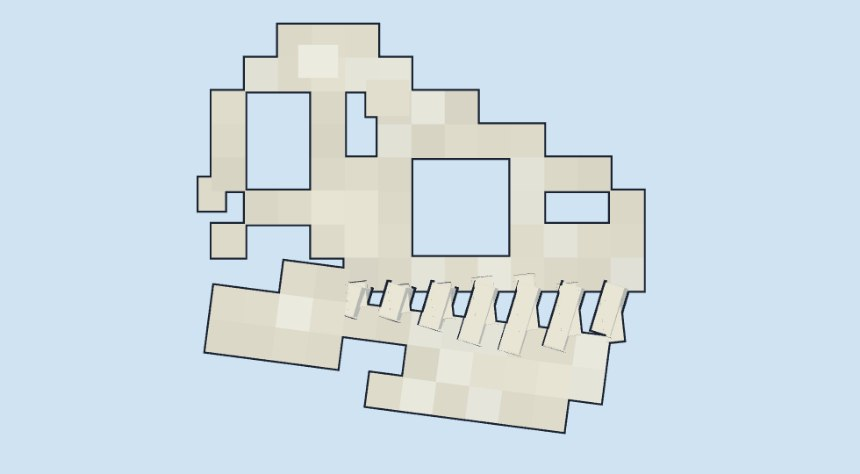
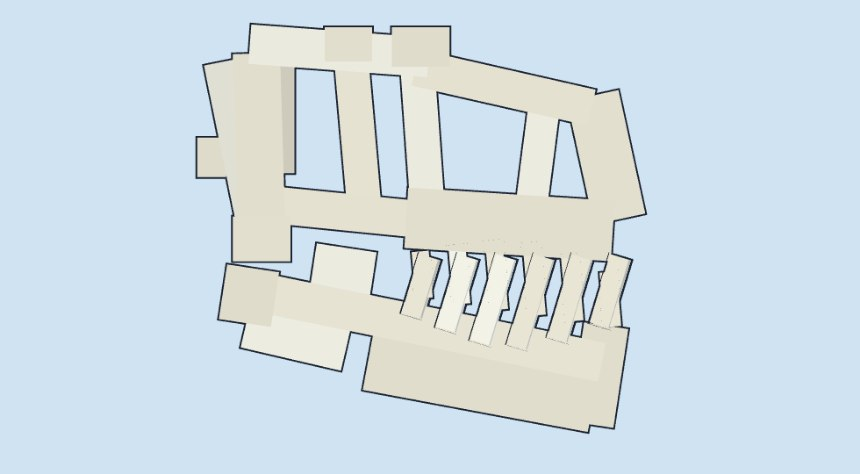
Build the skull from struts so its outlines match the rest of the skeleton
The complaint was never the block count: it was that every cell boundary
in the grid-built skull picked up its own inverted-hull outline, so the
head was hatched with seams while the body is smooth rods. Two adjacent
boxes always produce a line, because each hull expands past the other.

So the skull is assembled the way a real one is, out of a dozen big
bones instead of ninety cells:

- Outline members (skull roof, nasals, premaxilla, maxilla, jugal,
  raked-back occiput, quadrate) box in the silhouette, and three
  uprights - postorbital bar, lacrimal, ascending ramus of the maxilla -
  divide the space between them. The fenestrae are then simply the gaps
  between bones: lateral temporal, orbit, antorbital, naris.
- The braincase sits recessed behind the temporal opening so that
  fenestra reads as a window with something inside rather than a hole
  straight through the head.
- The lower jaw follows the same idea: upper rail, dentary body and
  angular, with the mandibular fenestra as the gap between them.
- `rod` gains a separate depth so a bone can be thin across its length
  and wide across the skull, which is what let the struts replace boxes.

Claude-Session: https://claude.ai/code/session_0125P2mU8XHrXdhLTmH6Xdx1

Changed region(s): [[0.2116, 0.0295, 0.7558, 0.9156]]

diff --git a/src/world/props.js b/src/world/props.js
@@ -2,7 +2,7 @@
 // Static props are merged into a handful of batched draw calls; only things
 // that actually move keep their own transform.
 import * as THREE from '../../vendor/three/three.module.js';
-import { mulberry32, lerp, clamp } from '../lib/math.js';
+import { mulberry32, lerp } from '../lib/math.js';
 import { VoxelBuilder, toonMaterial, addOutline, outlineMaterial } from '../lib/voxel.js';
 import { applyWind, windOutlineMaterial } from '../lib/wind.js';
 import { CFG, groundAt, isLand, surfaceAt, slopeAt } from './terrain.js';
@@ -44,7 +44,7 @@ const _UP = new THREE.Vector3(0, 1, 0);
  * Chaining these with a shrinking width gives smooth tapered rods instead of
  * a staircase of axis-aligned cubes.
  */
-function rod(b, base, a, c, w, color, opts = {}, pad = 0.04) {
+function rod(b, base, a, c, w, color, opts = {}, pad = 0.04, depth = 0) {
   _rd.set(c[0] - a[0], c[1] - a[1], c[2] - a[2]);
   const len = _rd.length();
   if (len < 1e-5) return;
@@ -54,7 +54,7 @@ function rod(b, base, a, c, w, color, opts = {}, pad = 0.04) {
   _rm.compose(_rc, _rq, _r1);
   _rm.premultiply(base);
   b.setTransform(_rm);
-  b.box(0, 0, 0, w, len + pad, w, color, opts);
+  b.box(0, 0, 0, w, len + pad, depth || w, color, opts);
 }
 
 const COL = {
@@ -308,124 +308,93 @@ function signpost(b, x, z, yaw) {
  * huge antorbital fenestra, a keyhole orbit set high, the broad temporal
  * opening behind it, and a deep boxy back. No horns, no crest.
  */
-const TREX = {
-  cols: 13,
-  // side view, top row first. Column 0 is the snout tip, 12 the occiput,
-  // row 0 the maxillary tooth row.
-  skull: [
-    '........###..',
-    '.......#####.',
-    '.....###.#..#',
-    '...#####.#..#',
-    '.###...###..#',
-    '#..#...#####.',
-    '####...###..#',
-    '#########....',
-  ],
-  // lower jaw: a coronoid bump above the tooth margin, then the dentary
-  jaw: [
-    '.........##..',
-    '.############',
-    '.######..####',
-    '..######.....',
-  ],
-  jawTopRow: 1,          // index in `jaw` that lines up with the tooth margin
-  // full width per column, in cells: narrow snout, broad braincase
-  wide: [1.9, 2.0, 2.1, 2.2, 2.4, 2.6, 2.9, 3.2, 3.6, 3.9, 4.0, 3.8, 3.4],
-};
-
-/** Half-width multiplier across the skull's height: an arch, not a slab. */
-const archProfile = (v) => 0.6 + 0.4 * Math.sin(Math.PI * Math.pow(clamp(v, 0, 1), 0.85));
-
-function gridAt(map, c, r) {
-  const row = map[map.length - 1 - r];      // row 0 is the bottom line
-  return !!row && row[c] === '#';
-}
-
+/**
+ * Tyrannosaurus skull.
+ *
+ * Built the way the real thing is - a frame of struts - rather than as a solid
+ * grid with holes cut in it. Two reasons: at this block size every cell
+ * boundary picks up its own ink outline, so a grid skull ends up hatched with
+ * seams while the rest of the skeleton is smooth rods; and the fenestrae then
+ * fall out naturally as the gaps between bones. The outline members (skull
+ * roof, nasals, premaxilla, maxilla, jugal, quadrate) box in the silhouette and
+ * three uprights - postorbital bar, lacrimal, ascending ramus of the maxilla -
+ * divide the space between them into, back to front: lateral temporal
+ * fenestra, orbit, antorbital fenestra, naris.
+ *
+ * Design units: occiput at x = 0, snout tip at 3.2, tooth row at y = 0.
+ */
 export function trexSkull(b, base, ox, oy, oz, tilt, rnd, opts = {}) {
-  const T = TREX;
-  const { len = 2.6, jawDrop = 0.15 } = opts;
-  const cell = len / T.cols;
-  const rows = T.skull.length;
+  const { len = 3.1, jawDrop = 0.15 } = opts;
+  const k = len / 3.2;
   const bone = () => (rnd() < 0.22 ? COL.boneWarm : COL.bone);
   const skullM = new THREE.Matrix4()
     .compose(new THREE.Vector3(ox, oy, oz),
       new THREE.Quaternion().setFromEuler(new THREE.Euler(0, 0, tilt)),
-      new THREE.Vector3(1, 1, 1))
+      new THREE.Vector3(k, k, k))
     .premultiply(base);
 
-  const xOf = (c) => (T.cols - 1 - c) * cell;
-  const put = (m, x, y, z, w, h, d, tint) => {
+  // a bone: thickness `w` across the bar, `d` across the skull
+  const bar = (m, ax, ay, cx, cy, w, d, tint = 1) =>
+    rod(b, m, [ax, ay, 0], [cx, cy, 0], w, bone(),
+      { tint: tint * (0.97 + rnd() * 0.06) }, 0.02, d);
+  const box = (m, x, y, z, w, h, d, tint = 1) => {
     b.setTransform(m);
-    b.box(x, y, z, w, h, d, bone(), { tint: tint * (0.96 + rnd() * 0.08) });
+    b.box(x, y, z, w, h, d, bone(), { tint: tint * (0.97 + rnd() * 0.06) });
   };
 
-  // --- cranium ------------------------------------------------------------
-  const colSpan = [];
-  for (let c = 0; c < T.cols; c++) {
-    let lo = 99, hi = -1;
-    for (let r = 0; r < rows; r++) if (gridAt(T.skull, c, r)) { lo = Math.min(lo, r); hi = Math.max(hi, r); }
-    colSpan[c] = [lo, hi];
-  }
-  for (let c = 0; c < T.cols; c++) {
-    const [lo, hi] = colSpan[c];
-    for (let r = 0; r < rows; r++) {
-      if (!gridAt(T.skull, c, r)) continue;
-      const v = (r - lo) / Math.max(hi - lo, 1);
-      const open = !gridAt(T.skull, c - 1, r) || !gridAt(T.skull, c + 1, r)
-        || !gridAt(T.skull, c, r - 1) || !gridAt(T.skull, c, r + 1);
-      const w = T.wide[c] * cell * archProfile(v) * (open ? 0.84 : 1);
-      put(skullM, xOf(c), r * cell, 0, cell * 1.02, cell * 1.02, w, open ? 0.92 : 1);
-    }
-  }
+  // --- outline members -----------------------------------------------------
+  bar(skullM, 0.26, 1.62, 1.60, 1.52, 0.30, 0.92);      // skull roof
+  bar(skullM, 1.52, 1.44, 2.84, 1.14, 0.28, 0.58);      // nasals
+  bar(skullM, 2.86, 1.22, 3.06, 0.30, 0.40, 0.50);      // premaxilla, blunt tip
+  bar(skullM, 1.45, 0.30, 3.00, 0.20, 0.46, 0.66);      // maxilla, tooth bearing
+  bar(skullM, 0.42, 0.40, 1.62, 0.28, 0.28, 0.50);      // jugal
+  bar(skullM, 0.30, 1.54, 0.34, 0.22, 0.36, 0.76);      // quadrate
 
-  // lateral offset that lands on the skull surface at a given cell
-  const surfaceZ = (c, r) => {
-    const [lo, hi] = colSpan[Math.round(c)];
-    return T.wide[Math.round(c)] * cell
-      * archProfile((r - lo) / Math.max(hi - lo, 1)) * 0.46;
-  };
-  // the rugose lumps a T. rex carries on the lacrimal and postorbital
+  // braincase set well in behind the temporal opening, so the fenestra reads as
+  // an opening with something recessed inside rather than a filled panel
+  box(skullM, 0.34, 1.05, 0, 0.5, 0.82, 0.44, 0.8);
+  bar(skullM, 0.06, 1.48, 0.30, 0.30, 0.32, 0.66, 0.88);   // occiput, raked back
+  box(skullM, -0.04, 0.76, 0, 0.22, 0.3, 0.3, 0.95);    // occipital condyle
+  box(skullM, 0.34, 0.14, 0, 0.44, 0.34, 0.8, 0.96);    // jaw articulation
+
+  // --- uprights that divide the openings -----------------------------------
+  bar(skullM, 1.02, 1.52, 1.12, 0.38, 0.26, 0.46);      // postorbital bar
+  bar(skullM, 1.52, 1.52, 1.60, 0.40, 0.26, 0.46);      // lacrimal
+  bar(skullM, 2.50, 1.24, 2.40, 0.46, 0.24, 0.42);      // ascending ramus
+
+  // rugose lumps on the lacrimal and postorbital (a T. rex has no horns)
   for (const s of [-1, 1]) {
-    put(skullM, xOf(7.2), cell * 5.3, s * surfaceZ(7, 5.3), cell * 1.3, cell * 1.1, cell * 0.8, 0.95);
-    put(skullM, xOf(9.3), cell * 6.4, s * surfaceZ(9, 6.4), cell * 1.2, cell * 1.0, cell * 0.8, 0.95);
+    box(skullM, 1.55, 1.6, s * 0.4, 0.44, 0.3, 0.26, 0.95);
+    box(skullM, 1.0, 1.62, s * 0.38, 0.36, 0.26, 0.24, 0.95);
   }
-  put(skullM, xOf(12) - cell * 0.5, cell * 2.4, 0, cell * 0.8, cell * 1.0, cell * 1.0, 0.94);
 
-  // --- lower jaw, hinged open at the articulation --------------------------
-  const px = xOf(11.7), py = 0;
-  const jawM = new THREE.Matrix4().makeTranslation(px, py - cell * 0.95, 0)
+  // --- lower jaw, hinged at the articulation -------------------------------
+  const px = 0.34 * k, py = 0.08 * k;
+  const jawM = new THREE.Matrix4().makeTranslation(px, py, 0)
     .multiply(new THREE.Matrix4().makeRotationZ(-jawDrop))
     .multiply(new THREE.Matrix4().makeTranslation(-px, -py, 0))
     .premultiply(skullM);
-  const jawRows = T.jaw.length;
-  for (let c = 0; c < T.cols; c++) {
-    for (let r = 0; r < jawRows; r++) {
-      if (!gridAt(T.jaw, c, r)) continue;
-      const y = (r - (jawRows - 1 - T.jawTopRow)) * cell;
-      const open = !gridAt(T.jaw, c - 1, r) || !gridAt(T.jaw, c + 1, r)
-        || !gridAt(T.jaw, c, r - 1) || !gridAt(T.jaw, c, r + 1);
-      const w = T.wide[c] * cell * 0.76 * (open ? 0.88 : 1);
-      put(jawM, xOf(c), y, 0, cell * 1.02, cell * 1.02, w, open ? 0.93 : 1);
-    }
-  }
+  bar(jawM, 0.30, -0.26, 3.02, -0.40, 0.3, 0.58);       // upper rail
+  bar(jawM, 1.28, -0.66, 3.00, -0.72, 0.44, 0.56);      // dentary body
+  bar(jawM, 0.32, -0.52, 1.08, -0.58, 0.36, 0.54);      // angular
+  box(jawM, 3.02, -0.5, 0, 0.34, 0.76, 0.48);           // chin
+  box(jawM, 0.98, 0.0, 0, 0.46, 0.34, 0.52, 0.97);      // coronoid
+  box(jawM, 0.3, -0.3, 0, 0.4, 0.42, 0.7, 0.96);        // articular
 
-  // --- teeth --------------------------------------------------------------
-  const toothLen = (c) => 0.85 + 1.15 * Math.exp(-Math.pow((c - 2.6) / 2.8, 2));
-  for (let c = 0.3; c < 8.4; c += 1.3) {
-    const L = toothLen(c) * cell;
-    const z = surfaceZ(Math.min(Math.round(c), 8), 0.4) * 0.94;
-    const x = xOf(c);
+  // --- teeth ---------------------------------------------------------------
+  const toothLen = (x) => 0.32 + 0.36 * Math.exp(-Math.pow((x - 2.45) / 0.8, 2));
+  for (let x = 1.62; x < 3.12; x += 0.29) {
+    const L = toothLen(x);
     for (const s of [-1, 1]) {
-      rod(b, skullM, [x, -cell * 0.35, s * z], [x - L * 0.3, -cell * 0.35 - L, s * z * 0.94],
-        cell * 0.6, bone(), { tint: 1.05 }, 0);
-      const L2 = L * 0.8;
-      rod(b, jawM, [x, cell * 0.4, s * z * 0.92], [x - L2 * 0.24, cell * 0.4 + L2, s * z * 0.88],
-        cell * 0.52, bone(), { tint: 1.05 }, 0);
+      rod(b, skullM, [x, 0.0, s * 0.3], [x - L * 0.3, -L, s * 0.29],
+        0.15, bone(), { tint: 1.05 }, 0);
+      const L2 = L * 0.78;
+      rod(b, jawM, [x, -0.12, s * 0.27], [x - L2 * 0.24, -0.12 + L2, s * 0.26],
+        0.13, bone(), { tint: 1.05 }, 0);
     }
   }
   b.setTransform(null);
-  return { length: len, height: rows * cell };
+  return { length: len, height: 1.85 * k };
 }
 
 /**

diff --git a/tools/skull-profile.html b/tools/skull-profile.html
@@ -13,7 +13,7 @@ const b = new VoxelBuilder();
 const rnd = mulberry32(7);
 const whole = location.search.includes('body');
 if (whole) fossilBeast(b, rnd, 0, 0, 0);
-else trexSkull(b, new THREE.Matrix4(), 0, 0, 0, 0, rnd, { len: 3.1, jawDrop: 0.13 });
+else trexSkull(b, new THREE.Matrix4(), 0, 0, 0, 0, rnd, { len: 3.1, jawDrop: 0.15 });
 const geo = b.build();
 const m = new THREE.Mesh(geo, toonMaterial({ vertexColors: true }));
 m.add(new THREE.Mesh(geo, outlineMaterial(0.012)));

diff --git a/README.md b/README.md
@@ -44,12 +44,13 @@ python3 -m http.server 8080
 `aExpand`（ボックス中心からの符号ベクトル）で押し出すため、箱の角に隙間が出ません。
 
 **化石** — 骨は接線方向に回した箱を細らせながら繋いだテーパーロッド。
-頭骨は 13×8 のグリッドに側面図を**1 セルずつ手描き**しています（`TREX.skull`）。
-ブロック 1 個が肋骨ロッドとほぼ同じ太さになる粒度で、周囲のボクセルと density を揃えてあります。
-解剖学的な曲線をこのブロックサイズでサンプリングすると涙骨バー・後眼窩バー・眼窩上の骨梁
-といった細い骨が消えて破綻するため、ドット絵として直接描くほうが確実でした。
-長く低い吻部、巨大な前眼窩窓、高い位置の鍵穴形の眼窩、その後ろの側頭窓、深く角ばった後頭部。
-角も鶏冠もありません。
+頭骨も同じで、**実物と同じように梁の組み合わせ**で作っています。
+グリッドを穴で抜く方式だと、このブロックサイズではセル境界すべてに反転ハルの輪郭線が出て、
+胴体の滑らかなロッドと線密度が合わず、頭だけ網目状に見えてしまうためです。
+外形材（頭頂・鼻骨・前上顎骨・上顎骨・頬骨・方形骨）がシルエットを囲み、
+3 本の支柱（後眼窩バー・涙骨・上顎骨上行突起）がその間を仕切ることで、
+後ろから順に側頭窓・眼窩・前眼窩窓・外鼻孔が**骨と骨の隙間として自然に生まれます**。
+脳函は奥に引っ込めてあるので、側頭窓は素通しではなく奥に何かが見える窓になります。
 
 姿勢も種を決める要素なので、背骨は水平、腰を最高点に、短い首が頭を**前に**運び、
 後肢は巨大で前肢は二本指の切り株、尾は長く壁の中へ消えていきます。
